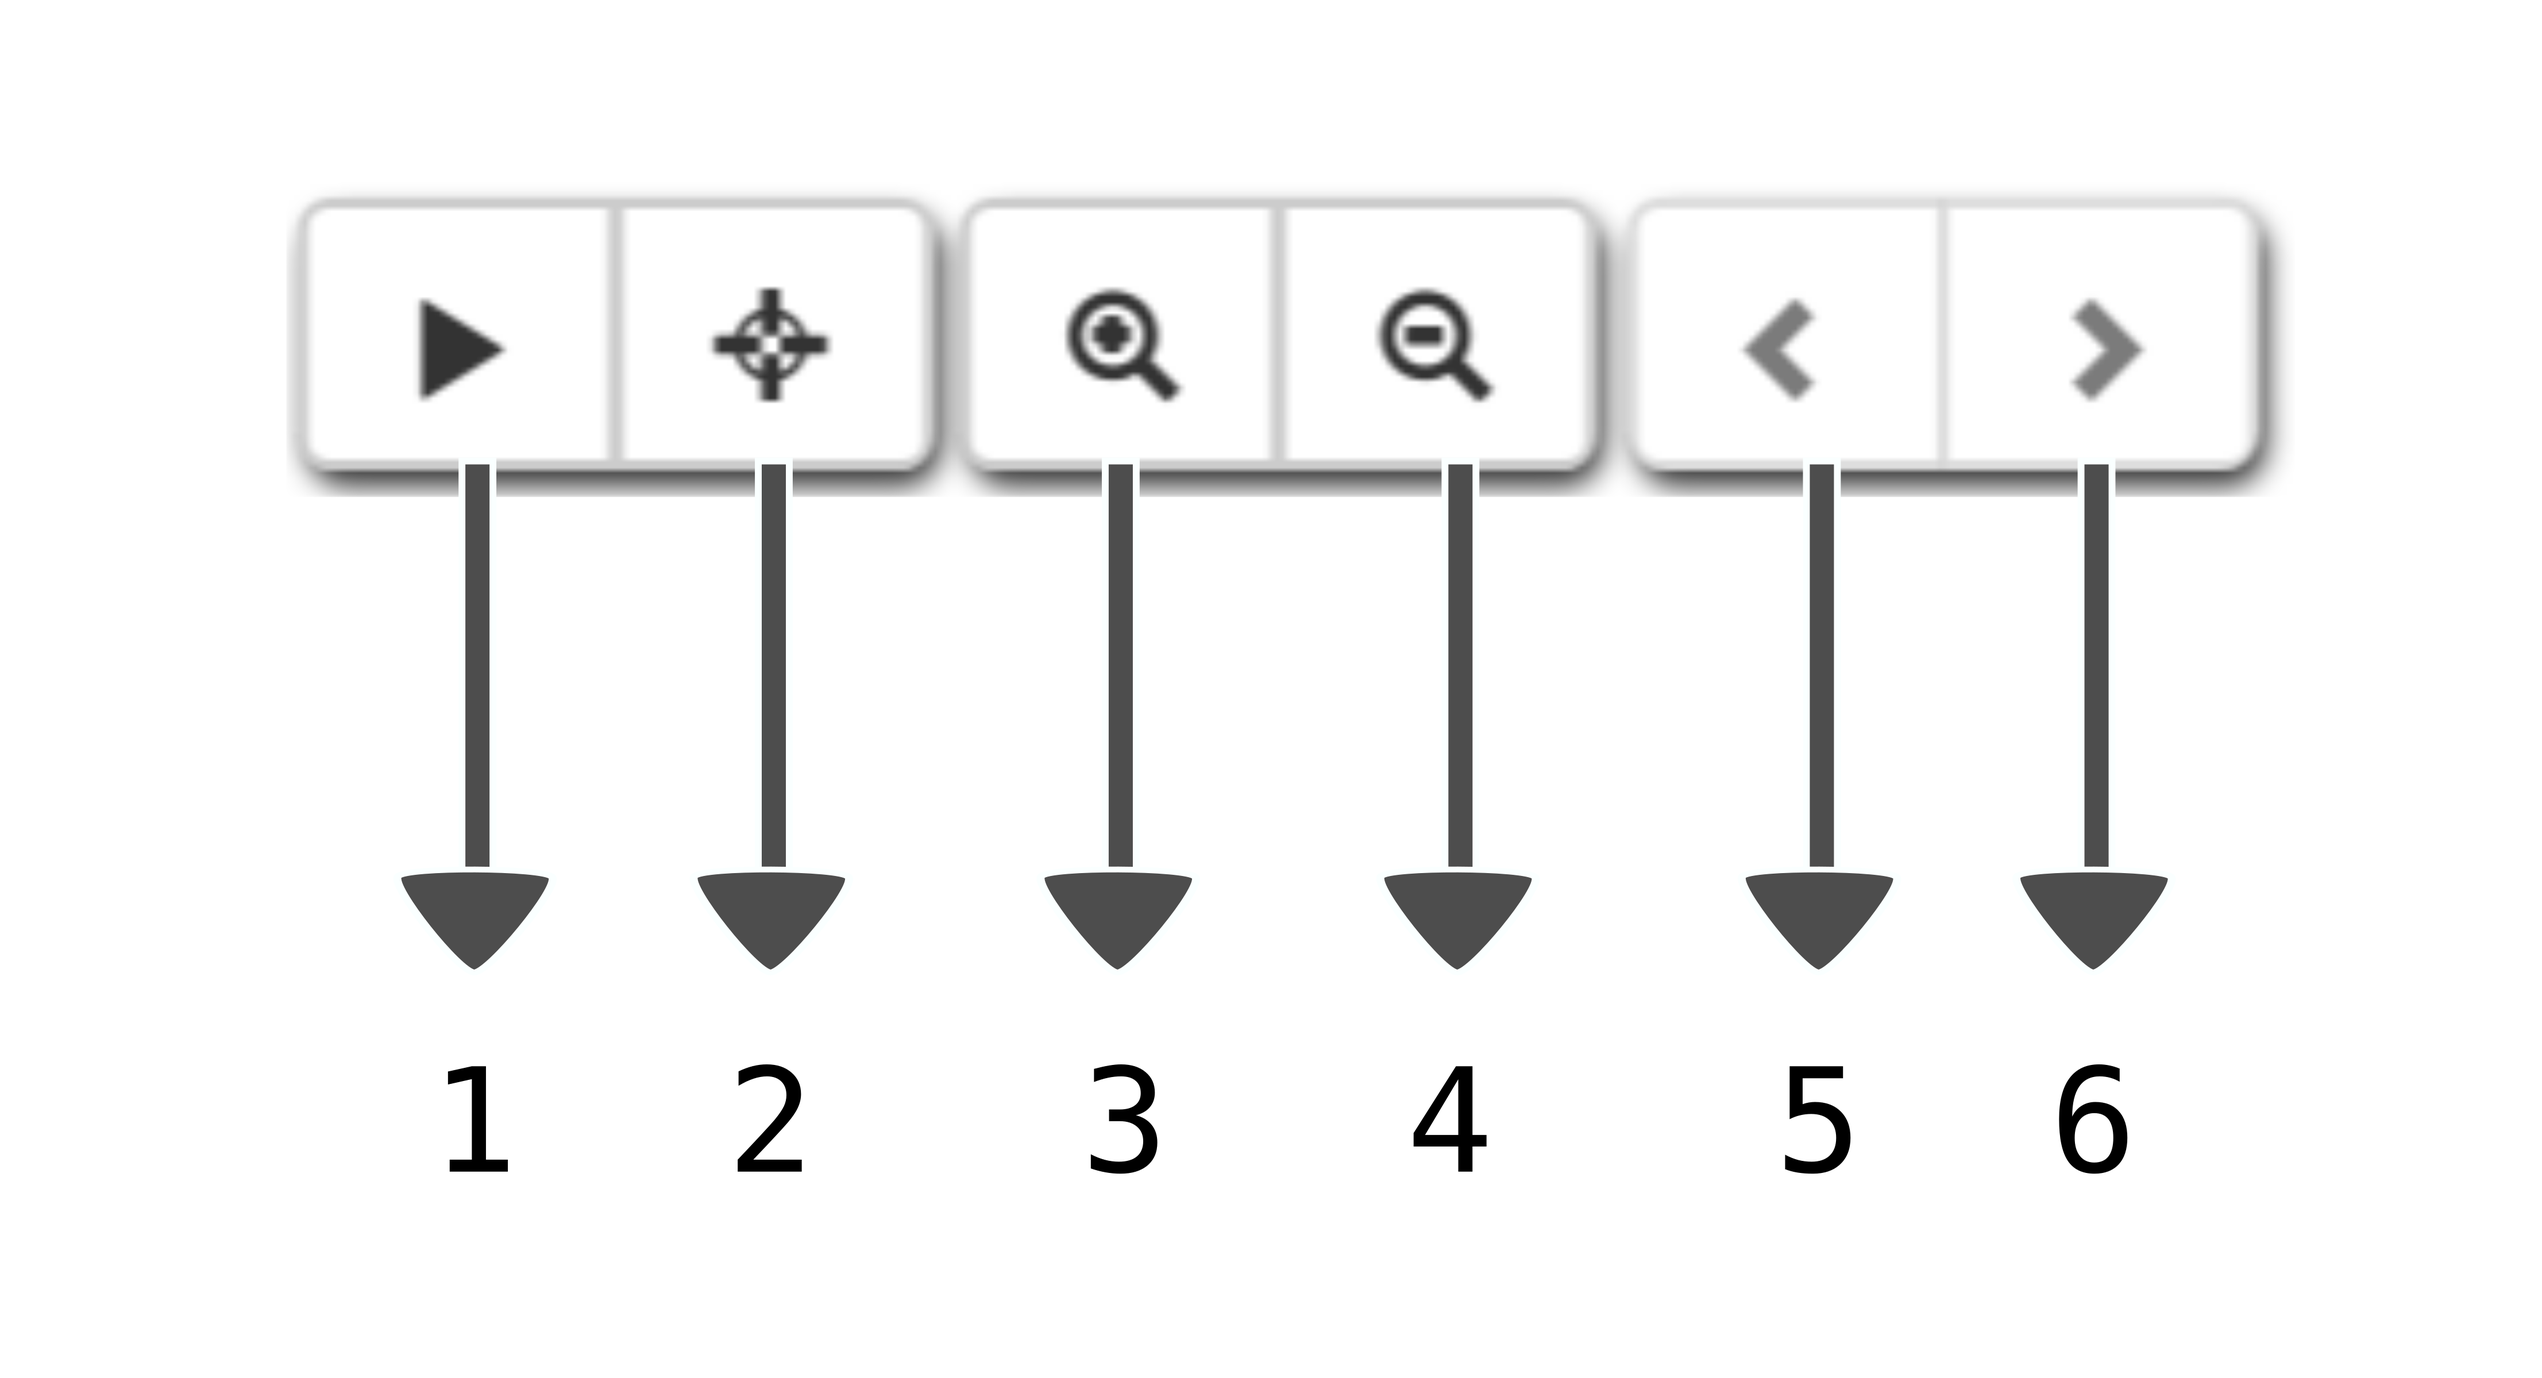
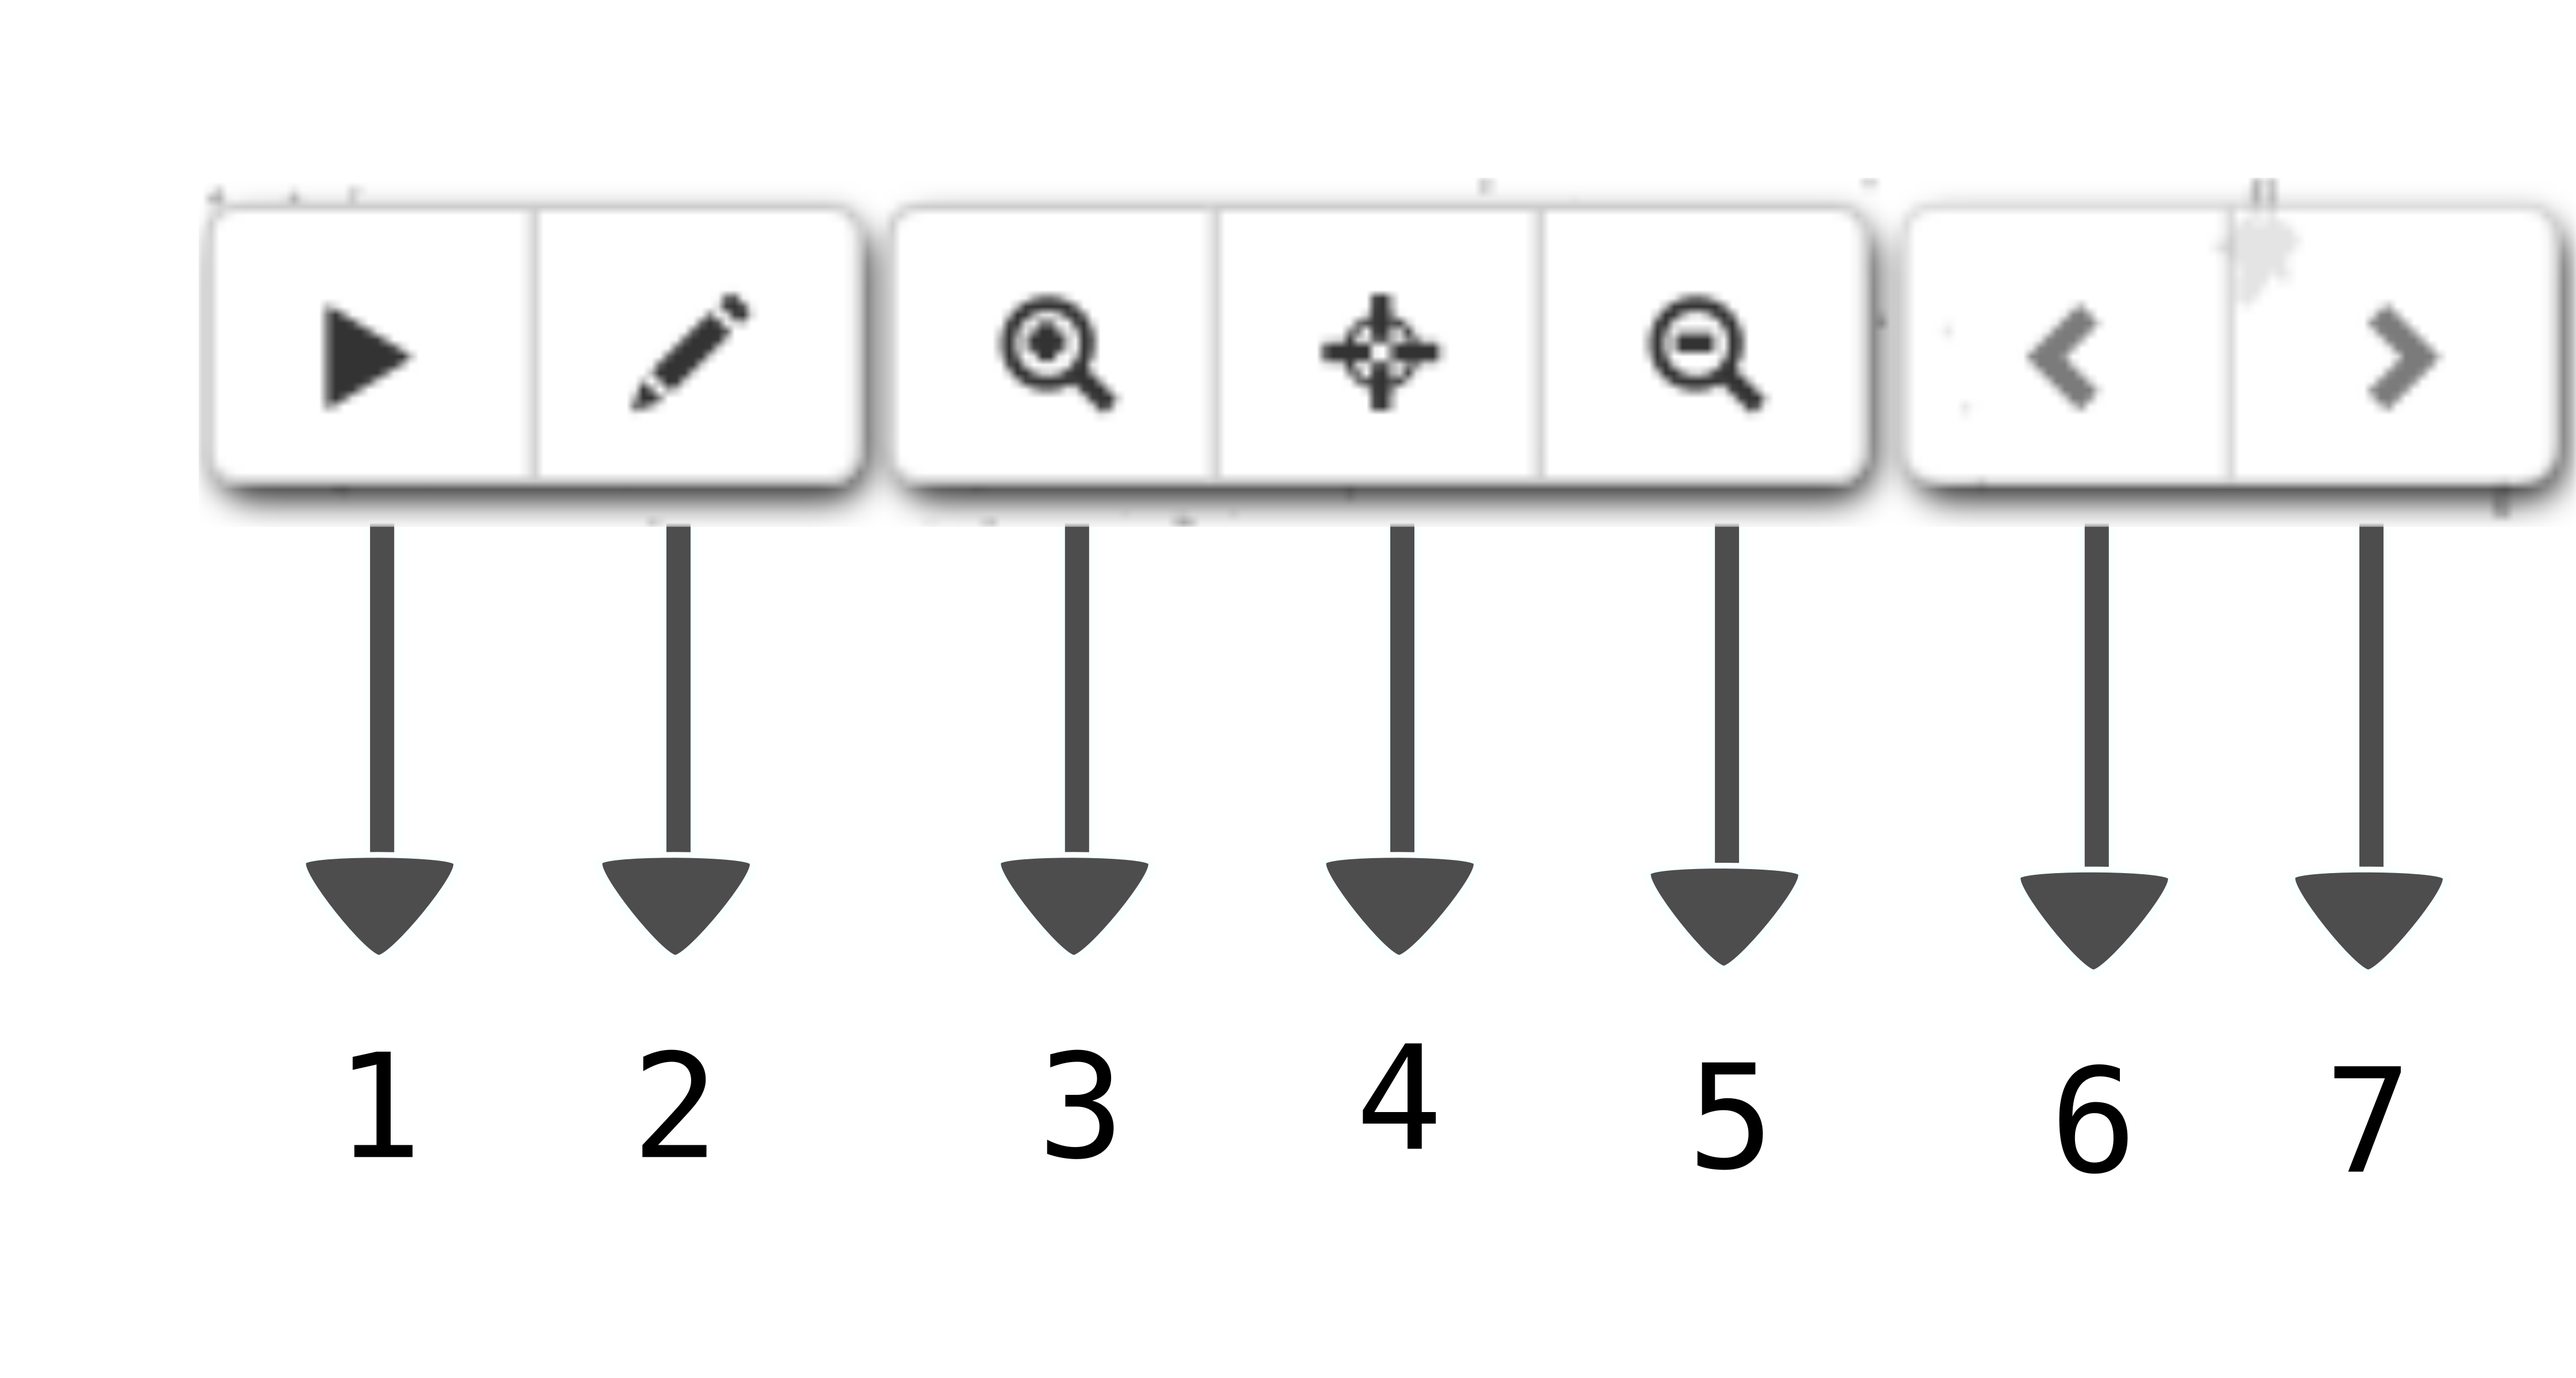
updated documentation of the center node functions

diff --git a/docs/graph.md b/docs/graph.md
@@ -13,9 +13,10 @@ and 2 disabled by default.
 1. [Play/Pause button](#play-and-pause)
 2. [Area selection](#area-selection)
 3. [Zoom in](#zooming-buttons)
-4. [Zoom out](#zooming-buttons)
-5. [Slide file to left](#arrow-buttons)
-6. [Slide file to right](#arrow-buttons)
+4. [Center graph](#center-graph)
+5. [Zoom out](#zooming-buttons)
+6. [Slide file to left](#arrow-buttons)
+7. [Slide file to right](#arrow-buttons)
 
 ### Play and Pause
 
@@ -40,6 +41,12 @@ and lock area selection.
 
 At the middle of these 6 buttons there are two buttons that control the
 zooming level, a zoom in button and a zoom out button.
+
+### Center graph
+
+Button that centers the graph on the node with more links currently
+displayed. This is particularly useful if you lost track of the cloud of
+plasmids.
 
 ### Arrow buttons
 
